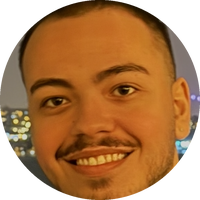
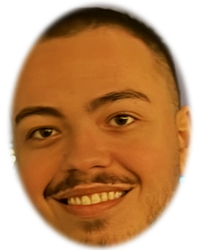
Çizgi adamın kafası: halka kaldırıldı, sadece yüz
Claude-Session: https://claude.ai/code/session_01Fg7pAjenKuirD15yxXHtkn

diff --git a/app.js b/app.js
@@ -208,10 +208,8 @@
     const legs = mood === 'win' ? 'M30 66 L19 90 M30 66 L41 90' : 'M30 66 L22 92 M30 66 L38 92';
     const body = mood === 'zero' ? 'M30 33 L31 66' : 'M30 33 L30 66';
     return `<svg class="stick ${mood}" viewBox="0 0 60 96" role="img" aria-label="Çizgi adam, günlük görevler yüzde ${pct}">
-      <defs><clipPath id="headclip"><circle cx="30" cy="17" r="15"/></clipPath></defs>
       <g class="fig"><path d="${body} ${arms} ${legs}" class="limbs"/>
-      <image href="yuz.png" x="15" y="2" width="30" height="30" clip-path="url(#headclip)" preserveAspectRatio="xMidYMid slice"/>
-      <circle cx="30" cy="17" r="15" class="headring"/></g></svg>`;
+      <image href="yuz.png" x="16.5" y="0" width="27" height="34"/></g></svg>`;
   }
   function progressCard() {
     const p = progress();

diff --git a/sw.js b/sw.js
@@ -1,5 +1,5 @@
 // Çevrimdışı çalışma: dosyaları önbelleğe alır, internet varsa yenisini çeker.
-const C = 'sporn-v3';
+const C = 'sporn-v4';
 const FILES = ['./', 'index.html', 'data.js', 'app.js', 'manifest.json', 'yuz.png', 'icon-180.png', 'icon-192.png', 'icon-512.png'];
 self.addEventListener('install', e => { e.waitUntil(caches.open(C).then(c => c.addAll(FILES))); self.skipWaiting(); });
 self.addEventListener('activate', e => { e.waitUntil(caches.keys().then(ks => Promise.all(ks.filter(k => k !== C).map(k => caches.delete(k))))); self.clients.claim(); });
